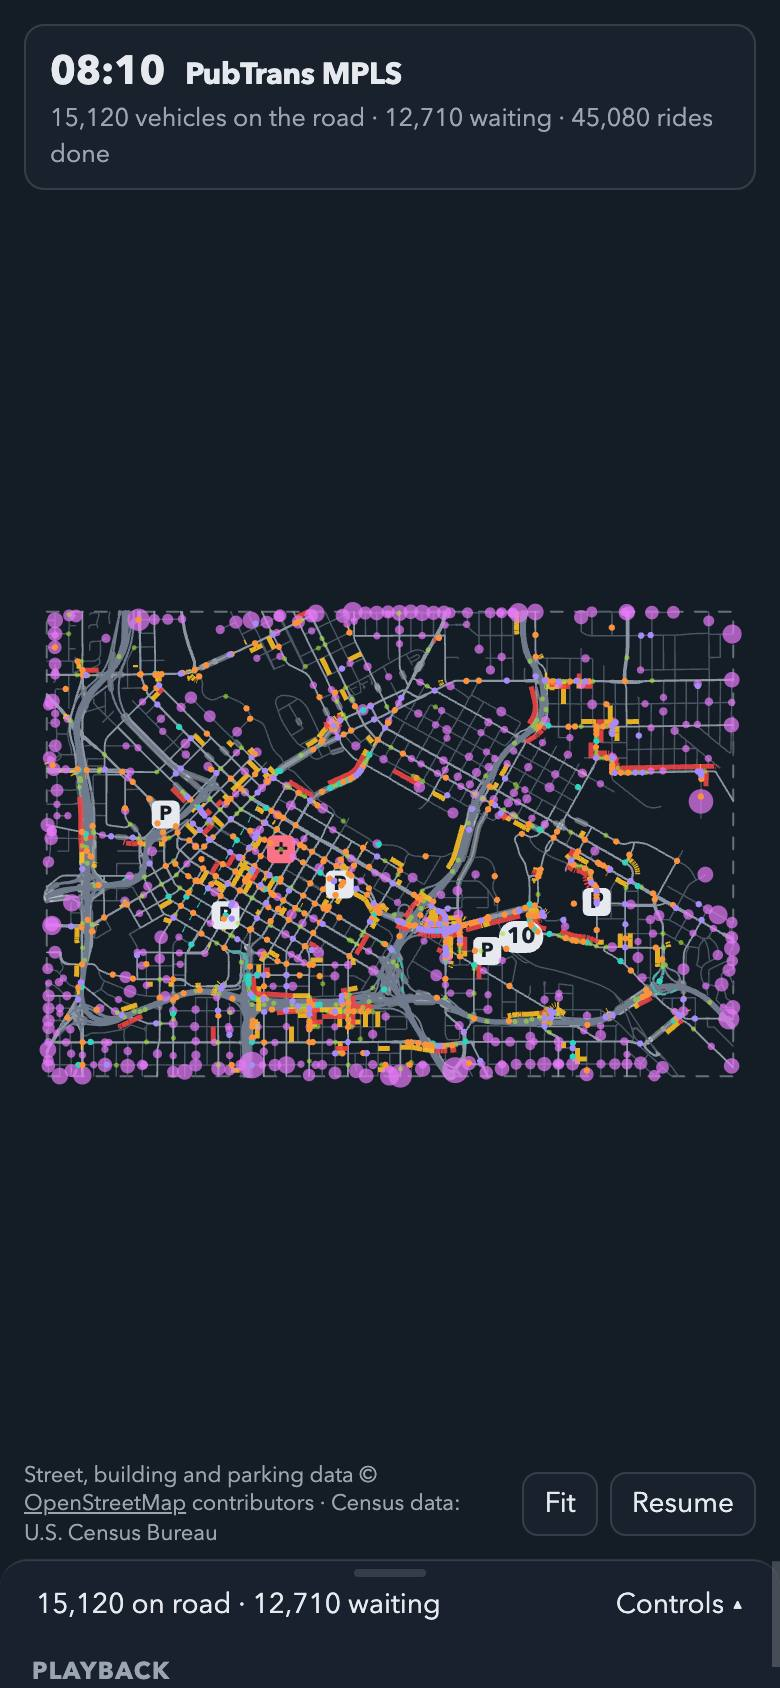
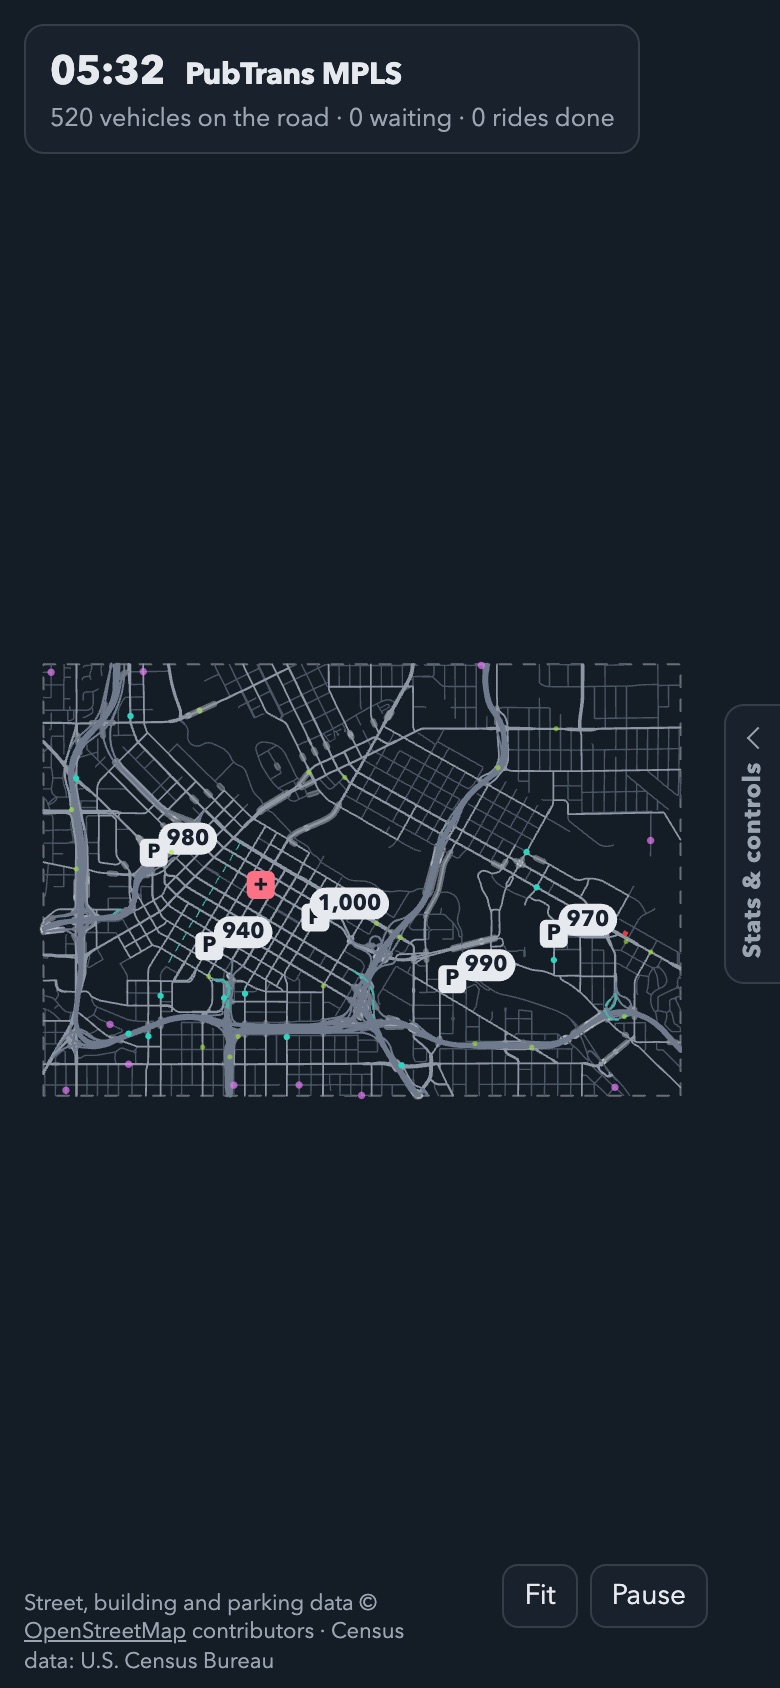
Phone layout: map and panel as two swipeable full-screen pages
On phones the controls were squeezed into a bottom sheet. The panel is now
a second full-screen page to the right of the map: swipe left from the
right edge, flick the map left or tap the Stats & controls tab to turn to
it (it scrolls up and down), and swipe right or tap "‹ Map" to go back.
A slow drag still pans the map. The map skips drawing while the panel
covers it. Desktop layout is unchanged.

diff --git a/index.html b/index.html
@@ -163,25 +163,38 @@
   #empty { position: fixed; inset: 0; display: none; place-items: center; text-align: center; padding: 24px; }
   #empty.open { display: grid; }
 
+  #swipeEdge { display: none; }
+
+  /* Phones: two full-screen pages side by side. The map, and to its right the panel, which slides in
+     over it when the map is swiped left and back out when the panel is swiped right. */
   @media (max-width: 760px) {
-    #panel { top: auto; left: 0; width: auto; height: 56vh; border-left: 0; border-top: 1px solid var(--panel-edge);
-      border-radius: 14px 14px 0 0; padding-top: 6px; padding-bottom: calc(20px + env(safe-area-inset-bottom, 0px));
-      transform: translateY(calc(56vh - 64px - env(safe-area-inset-bottom, 0px))); transition: transform 180ms ease-out; }
+    #panel { inset: 0; width: auto; border-left: 0; z-index: 10; touch-action: pan-y; overscroll-behavior: contain;
+      padding: 0 calc(16px + env(safe-area-inset-right, 0px)) calc(24px + env(safe-area-inset-bottom, 0px)) calc(16px + env(safe-area-inset-left, 0px));
+      transform: translateX(100%); transition: transform 220ms ease-out; }
     #panel.open { transform: none; }
-    #sheetToggle { display: flex; width: 100%; justify-content: space-between; align-items: center; border: 0; padding: 6px 2px 10px; }
-    #sheetToggle .grip { width: 36px; height: 4px; border-radius: 2px; background: var(--panel-edge); position: absolute; left: calc(50% - 18px); top: 4px; }
-    #mapButtons { right: calc(12px + env(safe-area-inset-right, 0px)); top: auto; bottom: calc(76px + env(safe-area-inset-bottom, 0px)); }
-    #info { bottom: calc(120px + env(safe-area-inset-bottom, 0px)); }
+    #sheetToggle { display: flex; position: sticky; top: 0; z-index: 1; gap: 12px; justify-content: space-between; align-items: center;
+      width: calc(100% + 32px); margin: 0 -16px; min-height: 48px; border: 0; border-bottom: 1px solid var(--panel-edge); border-radius: 0;
+      padding: calc(8px + env(safe-area-inset-top, 0px)) 16px 8px; background: var(--panel-solid); font-weight: 650; }
+    #sheetToggle #sheetSummary { color: var(--muted); font-weight: 500; font-size: 12.5px; text-align: right; }
+    #swipeEdge { display: flex; position: fixed; top: 0; right: 0; bottom: 0; width: 28px; align-items: center; justify-content: flex-end;
+      touch-action: none; }
+    #statsTab { display: flex; flex-direction: column; align-items: center; gap: 8px; width: 28px; min-height: 0; padding: 12px 0;
+      border-right: 0; border-radius: 10px 0 0 10px; background: var(--panel); color: var(--muted); font-size: 12px; font-weight: 650;
+      backdrop-filter: blur(6px); -webkit-backdrop-filter: blur(6px); }
+    #statsTab::before { content: ""; width: 7px; height: 7px; border: solid currentColor; border-width: 0 0 1.5px 1.5px; transform: translateX(2px) rotate(45deg); }
+    #statsTab span { writing-mode: vertical-rl; transform: rotate(180deg); letter-spacing: 0.04em; }
+    #mapButtons { right: calc(36px + env(safe-area-inset-right, 0px)); top: auto; bottom: calc(30px + env(safe-area-inset-bottom, 0px)); }
+    #info { bottom: calc(80px + env(safe-area-inset-bottom, 0px)); }
     #pov { top: calc(104px + env(safe-area-inset-top, 0px)); bottom: auto; right: 12px; width: calc(100vw - 24px); }
-    #credit { bottom: calc(70px + env(safe-area-inset-bottom, 0px)); max-width: calc(100vw - 170px); line-height: 1.3; }
-    #panel.open ~ #credit { display: none; }   /* the panel's last line carries the credit while the sheet is open */
-    #title { max-width: calc(100vw - 24px); }
+    #credit { max-width: calc(100vw - 190px); line-height: 1.3; }
+    #title { max-width: calc(100vw - 52px); }
   }
   @media (prefers-reduced-motion: reduce) { #panel { transition: none; } }
 </style>
 </head>
 <body>
 <canvas id="map" tabindex="0" aria-label="Simulation map. Drag to pan, scroll or pinch to zoom, tap a vehicle or place for details."></canvas>
+<div id="swipeEdge"><button id="statsTab" aria-controls="panel" aria-label="Show stats and controls"><span>Stats &amp; controls</span></button></div>
 
 <header id="title" class="card">
   <h1><span id="clock" class="num">07:30</span><span>PubTrans MPLS</span></h1>
@@ -194,8 +207,8 @@
 </div>
 
 <aside id="panel" aria-label="Simulation controls and live metrics">
-  <button id="sheetToggle" aria-expanded="false" aria-controls="panel"><span class="grip" aria-hidden="true"></span>
-    <span class="num" id="sheetSummary">—</span><span id="sheetLabel">Controls ▴</span></button>
+  <button id="sheetToggle" aria-expanded="false" aria-controls="panel" aria-label="Back to the map"><span>‹ Map</span>
+    <span class="num" id="sheetSummary">—</span></button>
 
   <details open data-sec="playback"><summary>Playback</summary>
   <div class="slider"><label for="speed">Speed</label><span id="speedVal" class="num">1×</span>
@@ -397,7 +410,7 @@ function start(graph) {
     canvas: $("map"), graph,
     themeKeys: ["sedan", "shuttle", "bus", "private", "police", "fire", "recovery", "employer", "grocery", "school",
       "station", "residential", "waiting", "depot", "closure", "go", "amber", "jam", "muted", "panel-solid", "series-1", "series-2", "bldg", "bldg-mid", "bldg-tall", "landmark"],
-    padding: () => phone() ? { left: 0, right: 0, top: 64, bottom: 64 } : { left: 0, right: panel.offsetWidth || 0, top: 56, bottom: 0 },
+    padding: () => phone() ? { left: 0, right: 28, top: 64, bottom: 28 } : { left: 0, right: panel.offsetWidth || 0, top: 56, bottom: 0 },
     overlay: drawOverlay,
     drawSignals,
     onTap: tapAt,
@@ -406,7 +419,7 @@ function start(graph) {
   const { view, theme } = map;
   const syncPanelWidth = () => document.documentElement.style.setProperty("--panel-w", phone() ? "0px" : (panel.offsetWidth || 0) + "px");
   syncPanelWidth();
-  addEventListener("resize", () => { syncPanelWidth(); map.requestDraw(); });
+  addEventListener("resize", () => { syncPanelWidth(); setPanelOpen(panelOpen); map.requestDraw(); });
 
   // Signal heads: a dot just before each signalized stop line, coloured by its phase.
   const signalArcs = sim.router.arcs.filter((a) => a.signal === 0 || a.signal === 1);
@@ -849,11 +862,85 @@ function start(graph) {
     });
   }
   $("logPause").addEventListener("click", () => { logPaused = !logPaused; $("logPause").setAttribute("aria-pressed", String(logPaused)); $("logPause").textContent = logPaused ? "Resume log" : "Pause log"; });
-  $("sheetToggle").addEventListener("click", () => {
-    const open = panel.classList.toggle("open");
+
+  // ---------------------------------------------------------------- phone pages
+  // On phones the panel is a full-screen page to the right of the map. Swipe left from the
+  // right edge, flick the map left or tap the Stats tab to turn to it; swipe it right to go back.
+  // A slow drag on the map still pans it.
+  let panelOpen = false, panelDragging = false, swipedAt = -1e9;
+  function setPanelOpen(open) {
+    panelOpen = open;
+    panel.classList.toggle("open", open);
+    panel.style.transform = ""; panel.style.transition = "";
+    panel.inert = phone() && !open;
     $("sheetToggle").setAttribute("aria-expanded", String(open));
-    $("sheetLabel").textContent = open ? "Map ▾" : "Controls ▴";
-  });
+    $("statsTab").setAttribute("aria-expanded", String(open));
+    if (open) { drawCharts(); if (sim.state.plan) drawPlan(); }
+  }
+  setPanelOpen(false);
+  // The panel follows a horizontal drag on `el`; on release it settles open or closed.
+  function swipePanel(el, opening, accept) {
+    let start = null, last = null, vx = 0;
+    el.addEventListener("pointerdown", (e) => {
+      start = phone() && panelOpen !== opening && (!accept || accept(e)) ? { x: e.clientX, y: e.clientY, id: e.pointerId } : null;
+      last = { x: e.clientX, t: e.timeStamp }; vx = 0;
+    });
+    el.addEventListener("pointermove", (e) => {
+      if (!start || e.pointerId !== start.id) return;
+      const dx = e.clientX - start.x, dy = e.clientY - start.y;
+      if (!panelDragging) {
+        if (Math.hypot(dx, dy) < 10) return;
+        // Vertical, or the wrong way: not a page swipe (the panel scrolls, the tab ignores it).
+        if (Math.abs(dx) < Math.abs(dy) * 1.2 || (opening ? dx > 0 : dx < 0)) { start = null; return; }
+        panelDragging = true;
+        if (el.setPointerCapture) el.setPointerCapture(e.pointerId);
+        panel.style.transition = "none";
+      }
+      const w = innerWidth;
+      panel.style.transform = `translateX(${Math.max(0, Math.min(w, (opening ? w : 0) + dx))}px)`;
+      const dt = e.timeStamp - last.t;
+      if (dt > 0) vx = (e.clientX - last.x) / dt;
+      last = { x: e.clientX, t: e.timeStamp };
+    });
+    const end = (e) => {
+      if (!start || e.pointerId !== start.id) return;
+      if (panelDragging) {
+        const dx = e.clientX - start.x, w = innerWidth, cancelled = e.type === "pointercancel";
+        const flung = opening ? dx < -w * 0.25 || vx < -0.4 : dx > w * 0.25 || vx > 0.4;
+        panelDragging = false; swipedAt = performance.now();
+        setPanelOpen(cancelled ? panelOpen : flung === opening);
+      }
+      start = null;
+    };
+    el.addEventListener("pointerup", end);
+    el.addEventListener("pointercancel", end);
+    // A swipe that ends over a button is not a press of it.
+    el.addEventListener("click", (e) => { if (performance.now() - swipedAt < 400) { e.stopPropagation(); e.preventDefault(); } }, true);
+  }
+  swipePanel($("swipeEdge"), true);
+  swipePanel(panel, false, (e) => !(e.target && e.target.closest && e.target.closest("input[type=range], select")));
+  $("statsTab").addEventListener("click", () => setPanelOpen(true));
+  $("sheetToggle").addEventListener("click", () => setPanelOpen(!panelOpen));
+  // A quick leftward flick on the map turns to the panel and undoes the pan it caused.
+  {
+    let down = 0, flick = null;
+    $("map").addEventListener("pointerdown", (e) => {
+      down++;
+      flick = down === 1 && phone() ? { x: e.clientX, y: e.clientY, t: e.timeStamp, ox: view.ox, oy: view.oy } : null;
+    });
+    const up = (e) => {
+      down = Math.max(0, down - 1);
+      const f = flick; flick = null;
+      if (!f || e.type !== "pointerup") return;
+      const dx = e.clientX - f.x, dy = e.clientY - f.y, dt = Math.max(1, e.timeStamp - f.t);
+      if (dx < -60 && Math.abs(dx) > 2 * Math.abs(dy) && dt < 250 && -dx / dt > 0.5) {
+        view.ox = f.ox; view.oy = f.oy; map.requestDraw();
+        setPanelOpen(true);
+      }
+    };
+    $("map").addEventListener("pointerup", up);
+    $("map").addEventListener("pointercancel", up);
+  }
 
   // ---------------------------------------------------------------- HUD
   const fmtMin = (m) => (m == null ? "—" : `${m.toFixed(1)} min`);
@@ -865,7 +952,7 @@ function start(graph) {
     // Counts are real people and vehicles: agents × K under Census demand.
     const onRoadReal = c.privateCars + (c.onRoad - c.private - c.through) * K;
     $("status").textContent = `${onRoadReal.toLocaleString()} vehicles on the road · ${(S.queue.length * K).toLocaleString()} waiting · ${(S.completed * K).toLocaleString()} rides done`;
-    $("sheetSummary").textContent = `${onRoadReal.toLocaleString()} on road · ${(S.queue.length * K).toLocaleString()} waiting`;
+    $("sheetSummary").textContent = `${sim.clock()} · ${onRoadReal.toLocaleString()} on road · ${(S.queue.length * K).toLocaleString()} waiting`;
     $("peekLive").textContent = `${(S.queue.length * K).toLocaleString()} waiting · ${fmtMin(sim.averageQueueMinutes())}`;
     $("hPop").textContent = (sim.demand ? S.plan.residents : sim.settings.population).toLocaleString();
     $("hAboard").textContent = (aboard * K).toLocaleString();
@@ -1101,7 +1188,7 @@ function start(graph) {
       const p = sim.locate(selected);
       if (p) map.centerOn(p.x, p.y);
     }
-    map.draw();
+    if (!(panelOpen && !panelDragging && phone())) map.draw();   // the panel covers the whole map
     if (t0 - lastHud > 250 || paused) { refresh(); lastHud = t0; }
     const ms = performance.now() - t0;
     perfEMA = perfEMA ? perfEMA * 0.9 + ms * 0.1 : ms;

diff --git a/README.md b/README.md
@@ -67,7 +67,9 @@ modelled). Tap a stop to see who is waiting there.
 
 ![Riding along with a shuttle on South 8th Street, the IDS Tower ahead](docs/img/pov.jpg)
 
-The panel (a bottom sheet on phones) has:
+The panel has (on phones it is a second full-screen page to the right of the map: swipe left
+from the right edge, flick the map left or tap the **Stats & controls** tab to turn to it, and
+swipe it right or tap **‹ Map** to go back; a slow drag still pans the map):
 
 - **Playback:** speed from 1× (30× real time) up, reset, trigger an emergency.
 - **Scenario:** day of the week, people per agent, share of car trips kept, transit replaced or
@@ -76,7 +78,7 @@ The panel (a bottom sheet on phones) has:
   empty share, occupancy, utilisation, wait and ride percentiles) with CSV downloads, the
   **Chokepoints** (river bridges, freeway ramps, map-edge entries) and an event log.
 
-<img src="docs/img/phone.jpg" width="260" alt="The simulation on a phone in dark mode, the map above and the controls in a bottom sheet">
+<img src="docs/img/phone.jpg" width="260" alt="The simulation on a phone in dark mode: the map fills the screen, with a Stats and controls tab on the right edge"> <img src="docs/img/phone-panel.jpg" width="260" alt="The panel page on a phone after swiping left: playback and live state, scrolling up and down, with a Map button at the top">
 
 `viewer.html` is the street map on its own: tap a street for its speed, lanes, direction and
 OSM way, or **Plan a route** to compare the fastest car route with the fastest shuttle route.

diff --git a/PLAN.md b/PLAN.md
@@ -520,3 +520,4 @@ too much.
 | 8 | done | Metrics (VMT/VHT, deadhead, occupancy, utilisation, distributions, series, bridge loads), CSV export on the page, `tools/run_scenario.cjs` sweeps with CSV + SVG chart, recorded in `docs/results/`. |
 | 9 | done | README and ARCHITECTURE rewritten with screenshots, credits on both pages and in the README, phone layout fixes, publish checks (`tests/publish.test.cjs`). Pages enabled 2026-10-24 (main, root); both pages and every asset they load return 200. |
 | 10 | done | Demand calibrated to ACS 2024, fall 2025 Metro Transit boardings, UMN and Downtown Council figures: walking/cycling and carpooling beyond 800 m, transit shares by traveller, LODES job lumps spread over floor space, UMN class grid, 90 % of car trips kept by default, errands optional. Requests 533k → 152k a day; default fleet 8,000 → 5,000 (9-min wait, transit replaced); transit kept needs 1,500 (was 4,000). |
+| Phone pages | done | Phones get the map and the panel as two full-screen pages instead of a bottom sheet: swipe left from the right edge, flick the map left or tap the Stats tab for the panel (scrolls vertically); swipe right or tap ‹ Map to go back. The map is not redrawn while the panel covers it. Checked in headless Chrome with touch emulation at 390 × 844. |

diff --git a/ARCHITECTURE.md b/ARCHITECTURE.md
@@ -108,8 +108,8 @@ street, signals per approach, places and waiting counts, and vehicles (dots far 
 shapes up close, sampled cars as several cars nose to tail). Picking inverts the view transform.
 **Ride along** opens the driver's-seat view (`src/pov.js`): roads, extruded buildings with
 back-face and distance culling, the skyline out to 1.5 km, landmark designs and nearby
-vehicles, drawn far to near and interpolated between steps. The panel (a bottom sheet on
-phones) holds playback, scenario and fleet controls, live state, run metrics with CSV export,
+vehicles, drawn far to near and interpolated between steps. The panel (on phones a second
+full-screen page beside the map, turned to by a swipe or flick left and back by a swipe right) holds playback, scenario and fleet controls, live state, run metrics with CSV export,
 chokepoints, the event log and the key.
 
 `viewer.html` is the street map on its own, with street inspection and a car-vs-shuttle route
